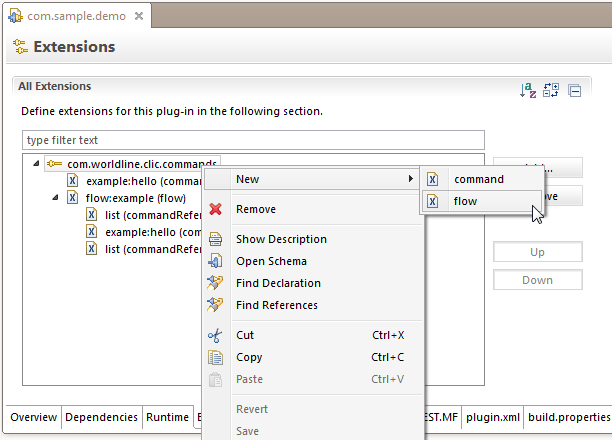
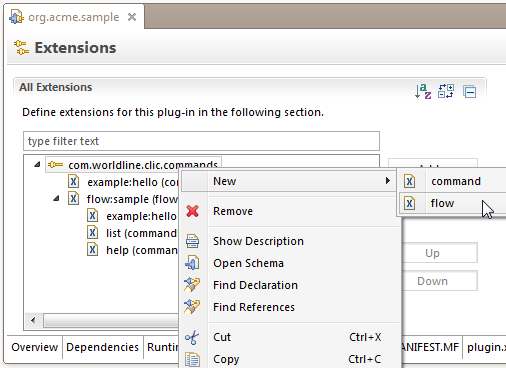
Updated documentation

diff --git a/commands.html b/commands.html
@@ -18,7 +18,6 @@ title: CLiC - Commands
 			<ul>
 				<li><a href="#list">list</a></li>
 				<li><a href="#help">help</a></li>
-				<li><a href="#list-flows">list:flows</a></li>
 				<li><a href="#clic-mvn">clic:mvn</a></li>
 			</ul>
 		</p>
@@ -34,85 +33,77 @@ title: CLiC - Commands
 	<div class="panel-body">
 		<p>This command is provided out of the box with CLiC framework and allows to get information about all the commands which are available in an Eclipse instance. It doesn't require any arguments, so you just have to type <code>list</code> in order to execute it. It'll display the names and descriptions of each available commands:</p>
 		<p><center><img src="resources/list.png" alt="list"/></center></p>
+		<p>Also, this command will be able to give you information about all the flows which are registered in your Eclipse instance.<p>
+		</div>
 	</div>
-</div>
 
-<span id="help"></span>
+	<span id="help"></span>
 
-<div class="panel panel-primary">
-	<div class="panel-heading">
-		<h3 class="panel-title">help</h3>
+	<div class="panel panel-primary">
+		<div class="panel-heading">
+			<h3 class="panel-title">help</h3>
+		</div>
+		<div class="panel-body">
+			<p>This command is provided out of the box with CLiC framework and allows to get some detailed information about a particular command which is available in an Eclise instance. It requires 1 parameter, <code>command</code> which allows to specify the name of the command for which you need some help. So you can type something like: <code>help --command command-name</code>. It'll display some details about the specified command and the arguments which are needed:</p>
+			<p><center><img src="resources/help.png" alt="help"/></center></p>
+			<div class="alert alert-info"><span class="glyphicon glyphicon-info-sign"></span> <strong>Info:</strong> As you may saw from this example, it's possible to use short versions of the arguments to provide when there's no ambiguity on the arguments names, just like this <i>-co</i> instead of <i>-command</i>.</div>
+			<p>Please notice that if you don't specify any parameters for this command, and only execute <code>help</code>, then it'll display the help message for the command itself.</p>
+		</div>
 	</div>
-	<div class="panel-body">
-		<p>This command is provided out of the box with CLiC framework and allows to get some detailed information about a particular command which is available in an Eclise instance. It requires 1 parameter, <code>command</code> which allows to specify the name of the command for which you need some help. So you can type something like: <code>help --command command-name</code>. It'll display some details about the specified command and the arguments which are needed:</p>
-		<p><center><img src="resources/help.png" alt="help"/></center></p>
-		<div class="alert alert-info"><span class="glyphicon glyphicon-info-sign"></span> <strong>Info:</strong> As you may saw from this example, it's possible to use short versions of the arguments to provide when there's no ambiguity on the arguments names, just like this <i>-co</i> instead of <i>-command</i>.</div>
-	</div>
-</div>
 
-<span id="list-flows"></span>
+	<span id="clic-mvn"></span>
 
-<div class="panel panel-primary">
-	<div class="panel-heading">
-		<h3 class="panel-title">list:flows</h3>
+	<div class="panel panel-primary">
+		<div class="panel-heading">
+			<h3 class="panel-title">clic:mvn</h3>
+		</div>
+		<div class="panel-body">
+			<p>This particular CLiC command allows to deal with any execution based on Maven. It aims at letting people define easily some tasks thanks to Maven plugins or Maven pom configurations and execute them through a CLiC plugin. In the case of Maven pom configuration, the plugin will be able to generate a temporary pom.xml file allowing to use the content defined in a parent pom. For this documentation, we'll take a concrete example in order to illustrate how this plugin can used. For this example, let's take into consideration a remote shell example: a Maven executable allowing to execute a command to a remote server using ssh.</p>
+			<h4>0. Creation of the Maven executable</h4>
+			<p>While creating a Maven executable to be used by CLiC, we always have two different choices: <strong>creating a complete Maven plugin</strong>, which allows to implement something to do or some interactions to perform, or <strong>write some configuration of an existing Maven plugin in a pom.xml file</strong>, which is really easy to do since you don't need any particular Maven knowledge. Let's take this second alternative as our example. If you need/want to write your own Maven plugin to cover your needs, maybe you can have a look at <a href="http://maven.apache.org/guides/plugin/guide-java-plugin-development.html" target="_blank">this documentation</a>.</p>
+			<p>In our case, and for a simple way of invoking ssh from an existing Maven plugin, we'll rely on the <a href="http://maven.apache.org/plugins/maven-antrun-plugin/" target="_blank">antrun</a> plugin which is available for Maven, and write a simple pom.xml file:</p>
+			<p>
+				{% gist 7434726 %}
+			</p>
+			<p>From this simple example, you see that we can specify really easily in a pom.xml everything we want: references to our executable thanks to the <code>groupId</code> and <code>artifactId</code>, but also a <code>version</code> so we can take the benefits of Maven versionning. Finally, we can plug the behavior wherever we want, behind a particular goal or phase, or anything.</p>
+			<p>Please notice that in this example, we're specifying a few variables that will need to be provided during the execution in order to keep our executable generic.</p>
+			<h4>1. Sharing the executable with my colleagues</h4>
+			<p>Depending if you want to share your executable or not, you can install it on Nexus, thanks to a Jenkins job for example. For this, you simply need to run a <code>mvn install</code> command, from your local environment if you want to use/test it locally, and from Jenkins in order to install it on Nexus and share it with your coworkers.</p>
+			<div class="alert alert-info"><span class="glyphicon glyphicon-info-sign"></span> <strong>Info:</strong> We're considering in this example that you're using the classical Jenkins/Nexus architecture in order to deal with Maven builds. Depending on your infrastructure's particularities, you may deploy to Nexus from your local environment, or use some other tools to proceed with the sharing step.</div>
+			<h4>2. Invoking your executable from the command line</h4>
+			<p>As soon as your executable has been installed somewhere (locally or on an accessible Nexus instance), you can invoke it easily from CLiC. For this, simply use the <code>clic:mvn</code> command with the following parameters:
+				<ul>
+					<li><code>--maven-reference</code>: allowing to specify the reference of the Maven executable you defined using the syntax <code>groupId:artifactId:version</code>, in our case it'll be <code>com.worldline.clic:example.remote-shell:1.0.0-SNAPSHOT</code>,</li>
+					<li><code>--generate-pom</code>: indicates that our Maven executable is just a configured pom.xml, so a temporary pom.xml needs to be generated locally in order to allow the execution of the plugin, <i>(do not use this option if you want to execute directly a Maven plugin)</i>,</li>
+					<li><code>--maven-command</code>: allows to specify the Maven command to be executed in order to reach the executable you defined, in our example, it'll be <code>antrun:run</code> as we're using the antrun plugin,</li>
+					<li>Any other parameters you'd like to send to Maven using the <code>-Dparam=value</code> syntax.</li>
+				</ul>
+			</p>
+			<p>Based on our example, and just for the illustration (do not reproduce this behavior because of obvious security issues), we could execute our remote-shell command thanks to CLiC using this kind of command:</p>
+			<p>
+				{% gist 7435682 %}
+			</p>
+			<p>And here it is! You just executed a remote shell command from CLiC using a simple Maven configuration. For sure, that's not the final result of what we want to do cause the command line is still pretty hard to write, but at least, we just illustrated that deploying executables from Maven is easy... And on top of that, we take the benefits of:
+				<ul>
+					<li>Maven automated downloading, when an executable is missing, Maven downloads it,</li>
+					<li>Maven versionning, allowing to deal with SNAPSHOTs, downloading the latest version, etc.</li>
+					<li>Maven ecosystem, allowing to use out of the box dozens of existing plugins that just need a few configuration,</li>
+					<li>And many more Maven advantages, such as profiles/settings/encryption and so on, already managed by Maven engine!</li>
+				</ul>
+			</p>
+			<h4>3. Default and/or shared configuration</h4>
+			<p>Another really nice feature that we can use from Maven is inheritance. As we're using Maven variables in order to obtain the different values we need to use, it's not mandatory for us to provide them from the command line, and we can simply create another pom.xml file, inheriting from the one we created initially in order to set up some values:</p>
+			<p>
+				{% gist 7435317 %}
+			</p>
+			<p>From this example, I just simply created a new pom defining a few values as <code>properties</code>. I can then simply install this pom locally thanks to <code>mvn install</code>, or share it with your colleagues thanks to a shared repository such as Nexus.</p>
+			<p>Finally, and because some values are already present in this configuration, I can invoke my Maven executable with the same type of commands, but without specifying all the default values:</p>
+			<p>
+				{% gist 7435709 %}
+			</p>
+			<p>Thanks to this new invokation (note that the <code>--maven-reference</code> has changed), I can invoke the same executable without specifying all the parameters. Moreover, if I shared this new pom.xml with some coworkers, they can invoke the same with a shared configuration! Icing on the cake, and thanks to Maven, this shared configuration is also versionned, and downloaded automatically when needed!</p>
+			<p>For more advanded usage, you can even think of using Maven profiles, Maven settings and their global parameters, etc.</p>
+			<h4>4. Industrialization of Maven commands</h4>
+			<p>Please note that thanks to the programmatic invocation of commands, it's possible, and really easy, to bring some industrialization while dealing with Maven commands execution. You can indeed write your own command which allows to generate a complete Maven command, and then execute it with your own parameters. Have a look at the <a href="documentation.html#programmatic-invokation">documentation</a> to see how to invoke commands programmatically ;)</p>
+		</div>
 	</div>
-	<div class="panel-body">
-		<p>This command is provided out of the box with CLiC framework and allows to get information about all the command flows which are available in an Eclipse instance. It doesn't require any arguments, so you just have to type <code>list:flows</code> in order to execute it. It'll display the names and descriptions of each available flows:</p>
-		<p><center><img src="resources/listflows.png" alt="list"/></center></p>
-	</div>
-</div>
-
-<span id="clic-mvn"></span>
-
-<div class="panel panel-primary">
-	<div class="panel-heading">
-		<h3 class="panel-title">clic:mvn</h3>
-	</div>
-	<div class="panel-body">
-		<p>This particular CLiC command allows to deal with any execution based on Maven. It aims at letting people define easily some tasks thanks to Maven plugins or Maven pom configurations and execute them through a CLiC plugin. In the case of Maven pom configuration, the plugin will be able to generate a temporary pom.xml file allowing to use the content defined in a parent pom. For this documentation, we'll take a concrete example in order to illustrate how this plugin can used. For this example, let's take into consideration a remote shell example: a Maven executable allowing to execute a command to a remote server using ssh.</p>
-		<h4>0. Creation of the Maven executable</h4>
-		<p>While creating a Maven executable to be used by CLiC, we always have two different choices: <strong>creating a complete Maven plugin</strong>, which allows to implement something to do or some interactions to perform, or <strong>write some configuration of an existing Maven plugin in a pom.xml file</strong>, which is really easy to do since you don't need any particular Maven knowledge. Let's take this second alternative as our example. If you need/want to write your own Maven plugin to cover your needs, maybe you can have a look at <a href="http://maven.apache.org/guides/plugin/guide-java-plugin-development.html" target="_blank">this documentation</a>.</p>
-		<p>In our case, and for a simple way of invoking ssh from an existing Maven plugin, we'll rely on the <a href="http://maven.apache.org/plugins/maven-antrun-plugin/" target="_blank">antrun</a> plugin which is available for Maven, and write a simple pom.xml file:</p>
-		<p>
-			{% gist 7434726 %}
-		</p>
-		<p>From this simple example, you see that we can specify really easily in a pom.xml everything we want: references to our executable thanks to the <code>groupId</code> and <code>artifactId</code>, but also a <code>version</code> so we can take the benefits of Maven versionning. Finally, we can plug the behavior wherever we want, behind a particular goal or phase, or anything.</p>
-		<p>Please notice that in this example, we're specifying a few variables that will need to be provided during the execution in order to keep our executable generic.</p>
-		<h4>1. Sharing the executable with my colleagues</h4>
-		<p>Depending if you want to share your executable or not, you can install it on Nexus, thanks to a Jenkins job for example. For this, you simply need to run a <code>mvn install</code> command, from your local environment if you want to use/test it locally, and from Jenkins in order to install it on Nexus and share it with your coworkers.</p>
-		<div class="alert alert-info"><span class="glyphicon glyphicon-info-sign"></span> <strong>Info:</strong> We're considering in this example that you're using the classical Jenkins/Nexus architecture in order to deal with Maven builds. Depending on your infrastructure's particularities, you may deploy to Nexus from your local environment, or use some other tools to proceed with the sharing step.</div>
-		<h4>2. Invoking your executable from the command line</h4>
-		<p>As soon as your executable has been installed somewhere (locally or on an accessible Nexus instance), you can invoke it easily from CLiC. For this, simply use the <code>clic:mvn</code> command with the following parameters:
-			<ul>
-				<li><code>--maven-reference</code>: allowing to specify the reference of the Maven executable you defined using the syntax <code>groupId:artifactId:version</code>, in our case it'll be <code>com.worldline.clic:example.remote-shell:1.0.0-SNAPSHOT</code>,</li>
-				<li><code>--generate-pom</code>: indicates that our Maven executable is just a configured pom.xml, so a temporary pom.xml needs to be generated locally in order to allow the execution of the plugin, <i>(do not use this option if you want to execute directly a Maven plugin)</i>,</li>
-				<li><code>--maven-command</code>: allows to specify the Maven command to be executed in order to reach the executable you defined, in our example, it'll be <code>antrun:run</code> as we're using the antrun plugin,</li>
-				<li>Any other parameters you'd like to send to Maven using the <code>-Dparam=value</code> syntax.</li>
-			</ul>
-		</p>
-		<p>Based on our example, and just for the illustration (do not reproduce this behavior because of obvious security issues), we could execute our remote-shell command thanks to CLiC using this kind of command:</p>
-		<p>
-			{% gist 7435682 %}
-		</p>
-		<p>And here it is! You just executed a remote shell command from CLiC using a simple Maven configuration. For sure, that's not the final result of what we want to do cause the command line is still pretty hard to write, but at least, we just illustrated that deploying executables from Maven is easy... And on top of that, we take the benefits of:
-			<ul>
-				<li>Maven automated downloading, when an executable is missing, Maven downloads it,</li>
-				<li>Maven versionning, allowing to deal with SNAPSHOTs, downloading the latest version, etc.</li>
-				<li>Maven ecosystem, allowing to use out of the box dozens of existing plugins that just need a few configuration,</li>
-				<li>And many more Maven advantages, such as profiles/settings/encryption and so on, already managed by Maven engine!</li>
-			</ul>
-		</p>
-		<h4>3. Default and/or shared configuration</h4>
-		<p>Another really nice feature that we can use from Maven is inheritance. As we're using Maven variables in order to obtain the different values we need to use, it's not mandatory for us to provide them from the command line, and we can simply create another pom.xml file, inheriting from the one we created initially in order to set up some values:</p>
-		<p>
-			{% gist 7435317 %}
-		</p>
-		<p>From this example, I just simply created a new pom defining a few values as <code>properties</code>. I can then simply install this pom locally thanks to <code>mvn install</code>, or share it with your colleagues thanks to a shared repository such as Nexus.</p>
-		<p>Finally, and because some values are already present in this configuration, I can invoke my Maven executable with the same type of commands, but without specifying all the default values:</p>
-		<p>
-			{% gist 7435709 %}
-		</p>
-		<p>Thanks to this new invokation (note that the <code>--maven-reference</code> has changed), I can invoke the same executable without specifying all the parameters. Moreover, if I shared this new pom.xml with some coworkers, they can invoke the same with a shared configuration! Icing on the cake, and thanks to Maven, this shared configuration is also versionned, and downloaded automatically when needed!</p>
-		<p>For more advanded usage, you can even think of using Maven profiles, Maven settings and their global parameters, etc.</p>
-	</div>
-</div>

diff --git a/documentation.html b/documentation.html
@@ -21,6 +21,7 @@ title: CLiC - Documentation
 				<li><a href="#command-implementation">Implementing your command</a></li>
 				<li><a href="#plugin-packaging">Packaging and sharing your plugin</a></li>
 				<li><a href="#flow-definition">Defining an execution flow</a></li>
+				<li><a href="#programmatic-invokation">Invoking a command programmatically</a></li>
 			</ul>
 		</p>
 	</div>
@@ -134,7 +135,7 @@ title: CLiC - Documentation
 			{% gist 7373922 %}
 		</p>
 		<h4>0. Defining the flow</h4>
-		<p>As you can see from this example, you can use the <code>&lt;flow&gt;</code> tag from the extension point in order to define a new flow. For this, you'll have to provide a <code>name</code> which will be used both for getting information about your flow, but also for invoking him. Then, your flow can contain as many <code>commandReference</code> elements as you need. A <code>commandReference</code> is actually only the name of the command you'd like to invoke. From the example below, it shows that the flow which has been defined will call successively the commands <code>list</code>, <code>example:hello</code> (which is defined in the exact same plugin), and <code>list:flow</code>.</p>
+		<p>As you can see from this example, you can use the <code>&lt;flow&gt;</code> tag from the extension point in order to define a new flow. For this, you'll have to provide a <code>name</code> which will be used both for getting information about your flow, but also for invoking him. Then, your flow can contain as many <code>commandReference</code> elements as you need. A <code>commandReference</code> is actually only the name of the command you'd like to invoke. From the example below, it shows that the flow which has been defined will call successively the commands <code>example:hello</code> (which is defined in the exact same plugin), <code>list</code>, and <code>help</code>.</p>
 		<div class="alert alert-info"><span class="glyphicon glyphicon-info-sign"></span> <strong>Info:</strong> We recommend as a good practice that the name of your flow should contain something indicating it's a flow. Something like <i>flow:sample</i>, for example.</div>
 		<p>For sure, you can also use Eclipse's extension point editor in order to have a graphical interface allowing to manipulate those flows:</p>
 		<p><center><img src="resources/flow.png" alt="Plugin editor"/></center></p>
@@ -142,9 +143,9 @@ title: CLiC - Documentation
 		<p><center><img src="resources/flow2.png" alt="Plugin editor"/></center></p>
 		<p><center><img src="resources/flow3.png" alt="Plugin editor"/></center></p>
 		<h4>1. Using the flow</h4>
-		<p>Once the plugin defining the flow installed in your Eclipse instance, you'll be able to invoke him directly from CLiC. In order to get information about the existing flows in your Eclipse instance, simply run the <code>list:flows</code> command, and you'll get information about all the flows which are available.</p>
+		<p>Once the plugin defining the flow installed in your Eclipse instance, you'll be able to invoke him directly from CLiC. In order to get information about the existing flows in your Eclipse instance, simply run the <code>list</code> command, and you'll get information about all the flows which are available.</p>
 		<p><center><img src="resources/flows.png" alt="Plugin editor"/></center></p>
-		<p>Then, you just have to type in the command line your flow's reference in order to execute it. Based on our example, I can simply execute <code>flow:example</code> command to see the result:</p>
+		<p>Then, you just have to type in the command line your flow's reference in order to execute it. Based on our example, I can simply execute <code>flow:sample</code> command to see the result:</p>
 		<p><center><img src="resources/flows2.png" alt="Plugin editor"/></center></p>
 		<h4>2. Managing arguments</h4>
 		<p>From the previous example, you may saw that passing parameters and arguments to flows is actually managed just like with unitary commands. While executing a flow, you can actually specify all the options that may be used by the associated commands so they can interpret the parameters and be executed properly.</p>
@@ -155,4 +156,16 @@ title: CLiC - Documentation
 	</p>
 	<p>From the example below, you can see that it's possible from the <code>example:hello</code> command to create a new argument which will be sent to all the other commands, and interpreted by the commands. So if you had another command for creating a project dedicated to a particular user for example, it could use this new generated parameter to get its information.</p>
 </div>
+</div>
+
+<span id="programmatic-invokation"></span>
+
+<div class="panel panel-primary">
+	<div class="panel-heading">
+		<h3 class="panel-title">Invoking a command programmatically</h3>
+	</div>
+	<div class="panel-body">
+		<p>From a command you defined, or in order to industrialize some already existing commands, you may need to invoke programmatically another command you may have built from your source code. In order to do so, you can simply use the <code>com.worldline.clic.internal.commands.CommandInvoker</code> object, which provides a static method called <code>static IStatus invoke(final String commandChain, final CommandContext context)</code>.</p>
+		<p>Using this <code>invoke</code> method, you can ask the internal engine for executing another complete command, with parameters and so on. Please note that while using this method, this new command will be executed in the same thread as the parent command.</p>
+	</div>
 </div>
